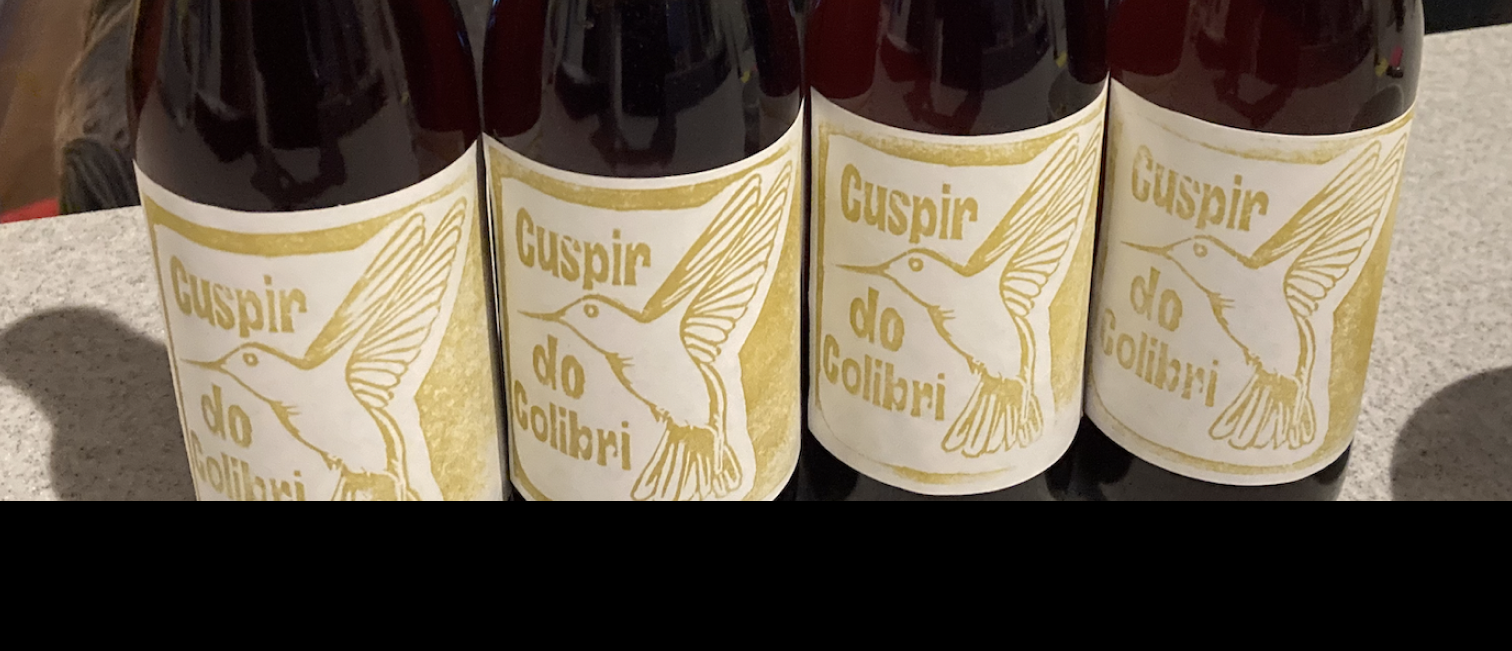
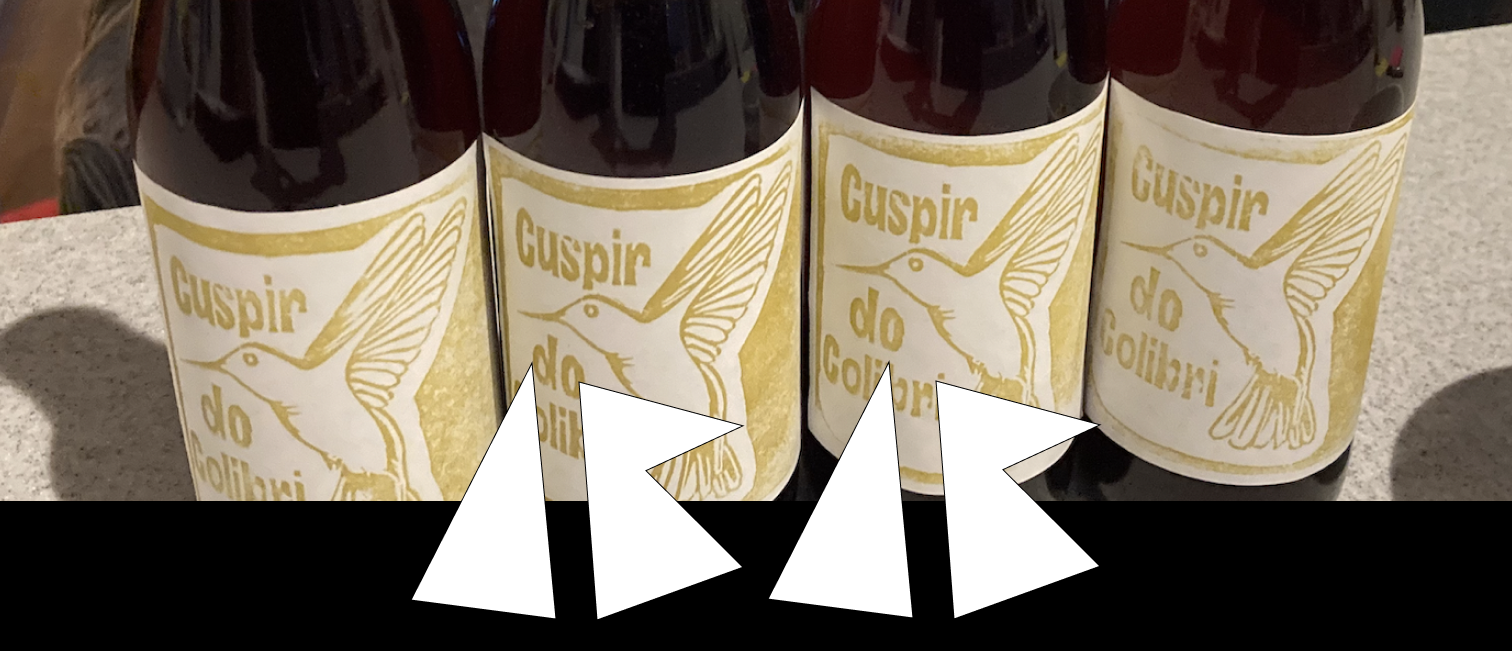
Updated hero image on landing page

Changed region(s): [[0.2487, 0.553, 0.746, 0.9524]]

diff --git a/index.html b/index.html
@@ -46,7 +46,6 @@
     </nav>
     <div class="header-banner">
         <img src="/images/bottle-banner.png" alt="Four beer bottles in a row" title="bottle-banner" class="banner"/>
-        <img src="/images/ABAB-logo.svg" alt="ABAB logo" title="Authoritarian Brewery Anarchy Brewery" class="logo" />
     </div>
     <h1>Chorlton-cum-Hardy's premier home brewery</h1>
     <hr />
